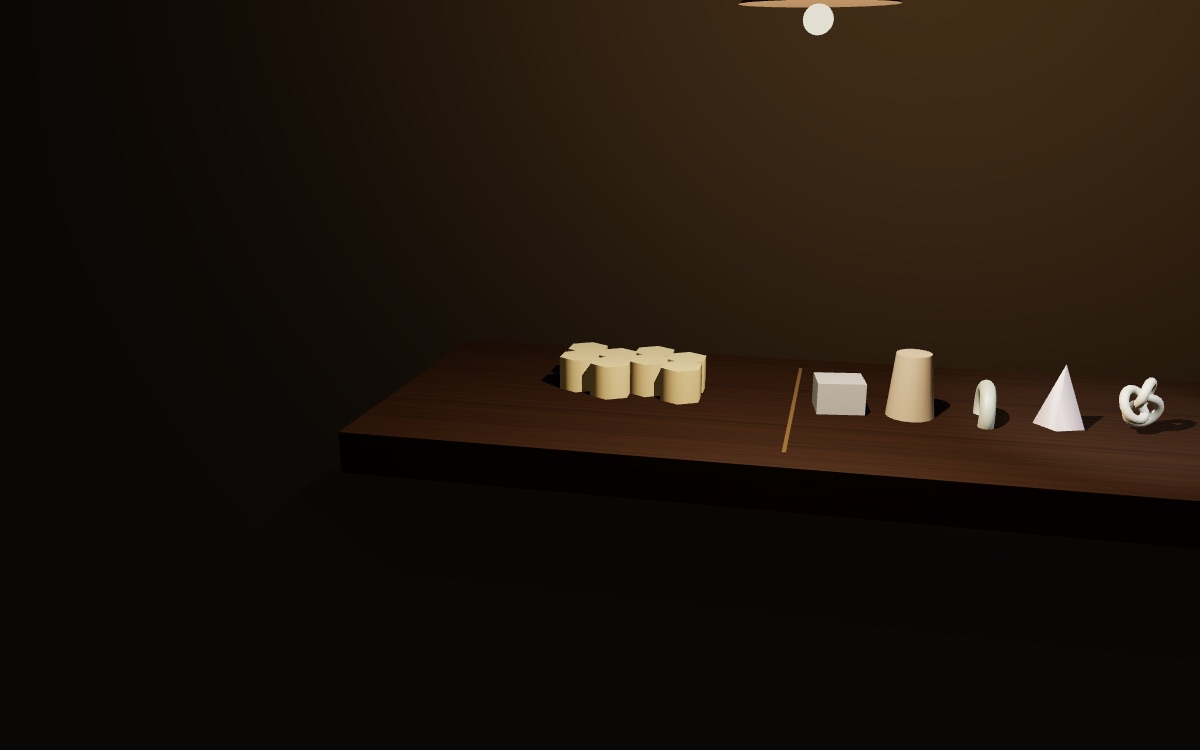
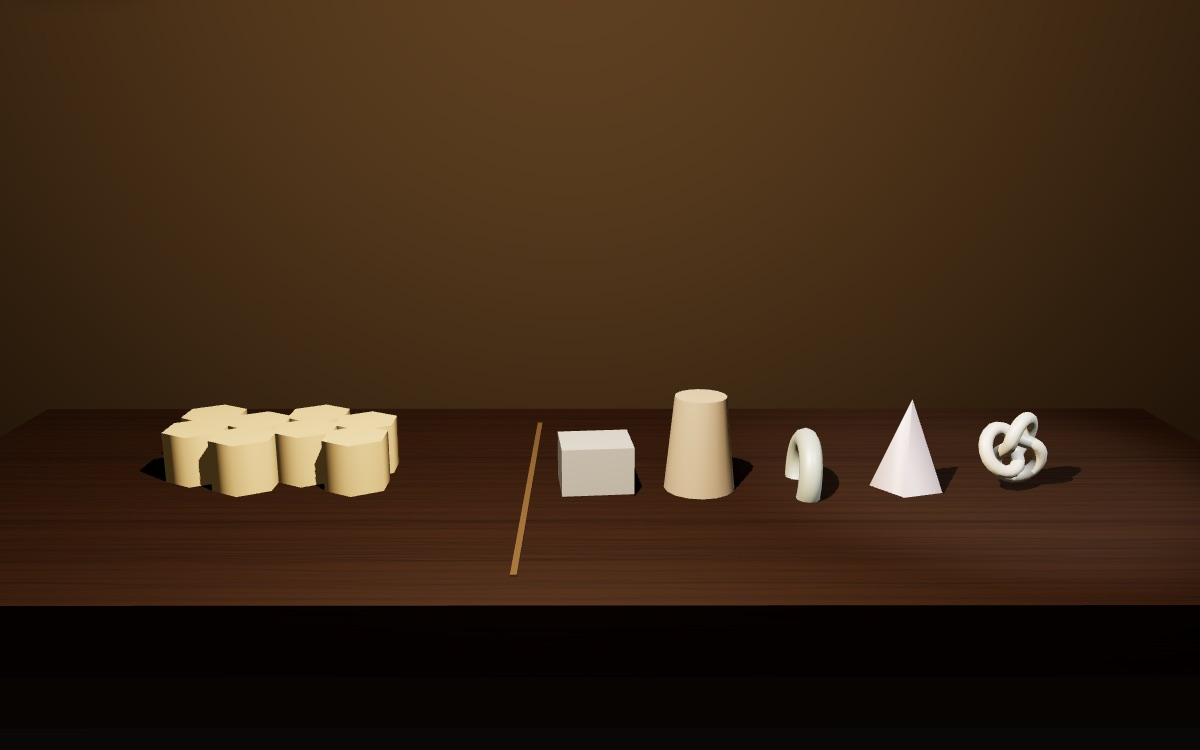
Glossaire : être générique réécrite selon la charte, direction artistique « le cadre et l'alvéole »

diff --git a/glossaire/mondes/etre-generique/essai.html b/glossaire/mondes/etre-generique/essai.html
@@ -1,46 +1,74 @@
-<!-- L'ESSAI — le corps de /glossaire/etre-generique.
-     ⚠ AUCUNE CITATION LIÉE : traduction Bottigelli, protégée jusqu'en 2046.
-     Le premier manuscrit est PARAPHRASÉ et situé, jamais cité. -->
+<!-- L'ESSAI : le corps de /glossaire/etre-generique.
+     Réécrit en octobre 2026 selon glossaire/mondes/CHARTE.md.
+     AUCUNE CITATION LIÉE : la traduction Bottigelli des Manuscrits est
+     protégée jusqu'en 2046. Le premier manuscrit est PARAPHRASÉ et situé,
+     jamais cité entre guillemets ; de même les Thèses sur Feuerbach.
+     Les data-etape et les id des sections ne changent pas : la scène lit
+     les premiers, les liens et la recherche les seconds. -->
 
 <section class="nt-sec" data-etape="mot" id="mot">
-<h2>Un mot qu'il faut d'abord défaire</h2>
-<p>« Être générique » traduit l'allemand <i>Gattungswesen</i>, et la traduction est si opaque qu'elle décourage à l'entrée. Il faut donc commencer par la défaire. <i>Gattung</i> veut dire le genre, l'espèce&nbsp;; <i>Wesen</i>, l'être ou l'essence. Un être générique est un être dont le rapport à sa propre espèce fait partie de ce qu'il est — un être qui, en agissant, a affaire non seulement à lui-même mais à ce que peut son espèce.</p>
-<p>La notion vient de Feuerbach, chez qui elle sert à expliquer la religion&nbsp;: l'homme y projetterait dans un dieu les perfections de son espèce, et adorerait ainsi sa propre essence sous une forme étrangère. Marx la reprend, et c'est ce déplacement qu'il faut suivre&nbsp;: chez lui, ce qui fait le rapport de l'homme à son espèce n'est pas la conscience ni la religion, c'est le <b>travail</b>. L'homme est un être générique parce qu'il produit, et la manière dont il produit décide de ce qu'il est.</p>
-<p>On voit d'emblée l'enjeu&nbsp;: si le rapport à l'espèce passe par le travail, alors une organisation du travail qui mutile ce rapport mutile l'homme dans ce qu'il a de propre. Le concept n'est donc pas un ornement philosophique posé sur l'analyse économique&nbsp;: c'est ce qui permet de dire en quoi consiste précisément le dommage.</p>
+<h2>Que veut dire «&nbsp;être générique&nbsp;»&nbsp;?</h2>
+<p class="nt-lead">Un être générique est un être qui, en agissant, a affaire à ce que peut son espèce entière, au-delà de ses besoins du moment. Marx reprend le mot à Feuerbach et en change le sens&nbsp;: chez lui, ce rapport à l'espèce passe par le travail.</p>
+<p>L'expression française est opaque, et il vaut mieux commencer par la défaire. Elle traduit l'allemand <i lang="de">Gattungswesen</i>. <i lang="de">Gattung</i> veut dire le genre, l'espèce&nbsp;; <i lang="de">Wesen</i>, l'être ou l'essence. «&nbsp;Générique&nbsp;» vient de genre, au sens où l'on parle du genre humain. Un être générique est un être pour qui l'espèce est un objet&nbsp;: il sait qu'il en fait partie, il peut se représenter ce dont elle est capable, et il agit en conséquence.</p>
+<p>Le mot vient de Ludwig Feuerbach, qui en fait la clé de <i>L'Essence du christianisme</i> (1841). Pour Feuerbach, ce qui sépare l'homme de l'animal est la conscience&nbsp;: l'homme a son espèce pour objet, et c'est pourquoi il peut se faire une religion. Dans un dieu, il contemple les perfections de son propre genre, sans savoir qu'elles sont les siennes. La critique de la religion consiste alors à rendre à l'homme ce qu'il avait projeté hors de lui.</p>
+<p>Marx garde le mot et déplace la chose. En 1844, à Paris, il rédige des cahiers d'économie et de philosophie qui resteront inédits jusqu'en 1932. Dans le premier, au passage intitulé «&nbsp;Le travail aliéné&nbsp;», il décrit successivement ce que ce travail fait au produit, à l'activité de l'ouvrier, puis à son être générique, et enfin au rapport entre les hommes. C'est la troisième qui définit l'être générique, et le rapport de l'homme à son espèce y passe par la manière dont il produit.</p>
 </section>
 
 <section class="nt-sec" data-etape="distinction" id="distinction">
-<h2>La distinction qui fait le concept&nbsp;: produire universellement</h2>
-<p>Marx établit le concept par une comparaison suivie avec l'animal, et cette comparaison est le cœur de la notion. L'animal produit, lui aussi&nbsp;: il bâtit des nids, des ruches, des terriers. Mais il produit d'une seule manière — celle de son espèce —, sous l'empire du besoin physique immédiat, et seulement ce dont il a immédiatement besoin, lui ou ses petits. Sa production est unilatérale, et elle ne se sépare jamais de sa nécessité.</p>
-<p>L'homme, dit Marx, produit universellement, et l'énoncé se décompose en quatre traits qu'il faut tenir ensemble. Il produit même libre du besoin physique, et il ne produit vraiment qu'alors. Il produit tout le champ de la nature, et non son seul environnement immédiat. Il sait produire selon la mesure de <b>toute</b> espèce, c'est-à-dire appliquer à chaque objet la mesure qui lui convient, et non une mesure unique. Et il sait former les choses d'après les lois de la beauté — ce qui veut dire&nbsp;: selon une mesure qui n'est commandée par aucun besoin.</p>
-<p>Le quatrième trait est celui qu'on escamote le plus souvent, et c'est pourtant celui qui décide. La production humaine se caractérise par le fait qu'elle peut se donner sa propre mesure&nbsp;; c'est en ce sens qu'elle est libre, et non parce qu'elle serait plus habile ou plus efficace. L'abeille bâtit admirablement, mais elle ne bâtit qu'une seule chose&nbsp;; le propre de l'homme n'est pas de mieux faire, c'est de pouvoir faire autrement.</p>
+<h2>En quoi l'homme produit-il autrement que l'animal&nbsp;?</h2>
+<p class="nt-lead">L'animal produit d'une seule manière, celle de son espèce, et seulement ce dont il a besoin. L'homme produit universellement&nbsp;: selon la mesure de chaque chose, et même sans besoin.</p>
+<p>Marx établit le concept par une comparaison suivie, et il commence par accorder à l'animal tout ce qui lui revient. L'animal produit, lui aussi. L'abeille, le castor, la fourmi se bâtissent des nids et des demeures. Mais l'animal ne produit que ce dont il a immédiatement besoin, pour lui ou pour ses petits. Il produit sous la contrainte du besoin physique, et d'une façon unilatérale. Son produit appartient directement à son corps, comme la cire appartient à l'abeille.</p>
+<p>L'homme, dit Marx, produit d'une manière universelle, et la formule se décompose en plusieurs traits. Il produit même lorsqu'il est libre du besoin physique, et ce n'est qu'alors, ajoute Marx, qu'il produit vraiment. Il ne se borne pas à son milieu immédiat&nbsp;: il reproduit, à sa façon, la nature entière. Il fait face librement à ce qu'il a produit, au lieu de le garder attaché à son corps. Surtout, il sait produire selon la mesure de n'importe quelle espèce et appliquer à chaque objet la mesure qui lui est propre. Il façonne enfin les choses d'après les lois de la beauté.</p>
+<p>Le dernier trait éclaire les autres. Les lois de la beauté désignent une mesure qu'aucun besoin ne commande. La production humaine peut se donner sa propre règle, et c'est ce qui la rend libre. L'abeille bâtit admirablement, et pourtant elle ne bâtit qu'une chose&nbsp;; le propre de l'homme est de pouvoir faire autrement.</p>
+<div class="nt-ex">
+<p class="nt-ex-t">Un exemple</p>
+<p>Regardez la photographie en tête de page. Les alvéoles sont des abeilles. Elles ont toutes la même forme et la même taille, et une ruche de l'an dernier ou d'un autre pays aurait les mêmes, puisque l'abeille ne connaît qu'une mesure, celle de son espèce. Le cadre de bois qui les entoure est d'un homme&nbsp;: il l'a taillé aux dimensions qui conviennent aux abeilles, c'est-à-dire à la mesure d'une autre espèce que la sienne.</p>
+<p>Le même homme aurait pu faire, dans le même bois, un nichoir à la mesure d'une mésange, une mangeoire à la mesure d'un cheval, une table à la sienne, ou un violon qui ne répond à aucun besoin. Les alvéoles et le cadre sont deux productions posées l'une dans l'autre. L'exemple est le nôtre&nbsp;; la distinction est celle de Marx.</p>
+</div>
 </section>
 
 <section class="nt-sec" data-etape="conscience" id="conscience">
-<h2>Le mécanisme&nbsp;: faire de sa vie un objet</h2>
-<p>Marx serre la différence d'un cran, et ce second énoncé est plus fort que le premier. L'animal <i>est</i> immédiatement son activité vitale&nbsp;: il ne s'en distingue pas, il ne la considère pas, il la vit. L'homme, lui, fait de son activité vitale l'objet de sa volonté et de sa conscience&nbsp;; il peut la regarder, la juger, la modifier. C'est ce recul qui fait qu'il a une vie générique&nbsp;: en se rapportant à ce qu'il fait, il se rapporte à ce que peut son espèce.</p>
-<p>De là une conséquence sur la nature elle-même. Parce qu'il produit universellement, l'homme fait de la nature entière son domaine, non seulement comme moyen de subsistance mais comme matière de son activité et comme objet de sa science et de son art. Marx en tire la formule qui court dans tout le cahier&nbsp;: la nature est le corps inorganique de l'homme, et vivre, c'est demeurer avec elle en procès continu.</p>
-<p>On tient alors le point où le concept se retourne en critique. Si l'homme est générique en ce qu'il produit universellement et se rapporte à ce qu'il fait, alors un travail qui n'est plus qu'un moyen de subsister renverse le rapport&nbsp;: la vie générique devient un moyen de la vie individuelle, au lieu que la seconde soit une expression de la première. C'est la troisième détermination du <a href="/glossaire/travail-aliene">travail aliéné</a>, et l'on voit qu'elle n'a de sens que si le concept d'être générique a été posé avant.</p>
+<h2>Pourquoi cette différence fait-elle de l'homme un être libre&nbsp;?</h2>
+<p class="nt-lead">Parce que l'homme fait de son activité l'objet de sa volonté et de sa conscience. L'animal se confond avec ce qu'il fait&nbsp;; l'homme peut le considérer, le juger et le changer.</p>
+<p>Marx serre la différence d'un cran, et ce second énoncé explique le premier. L'animal ne se distingue pas de son activité vitale&nbsp;: il est cette activité. L'homme, lui, fait de son activité un objet. Il peut la regarder du dehors, comme on regarde un ouvrage en cours. C'est seulement pour cette raison, écrit Marx, que son activité est libre&nbsp;: une manière de faire qu'on peut se représenter est une manière de faire qu'on peut modifier.</p>
+<p>On voit ici ce que Marx conserve de Feuerbach et ce qu'il transforme. La conscience joue toujours son rôle, mais elle devient le recul que l'homme prend sur sa propre production. Marx dit d'ailleurs que l'homme fait de l'espèce son objet en pratique comme en théorie, qu'il s'agisse de la sienne ou de celle des autres choses. Il se rapporte à lui-même comme à un être universel, et donc libre.</p>
+<p>De là un rapport neuf à la nature. Les plantes, les animaux, les pierres, l'air, la lumière entrent dans la conscience humaine comme objets de science et comme matière d'art. Ils entrent aussi dans sa vie pratique, comme nourriture, comme chauffage, comme vêtement. Marx en tire une formule qui court dans tout le cahier&nbsp;: la nature est le corps non organique de l'homme, avec lequel il doit rester en échange constant pour ne pas mourir.</p>
+<div data-planche="haeckel"></div>
+<p>C'est enfin en façonnant le monde des objets que l'homme fait la preuve de son être générique. Le produit de son travail est sa vie d'espèce rendue visible dans une chose, ce que Marx appelle son <a href="/glossaire/objectivation">objectivation</a>&nbsp;: l'homme se voit dans un monde qu'il a fait. On comprend dès lors pourquoi la manière d'organiser le travail décide de ce que l'homme devient.</p>
 </section>
 
 <section class="nt-sec" data-etape="mutilation" id="mutilation">
-<h2>Ce que le travail aliéné en fait</h2>
-<p>Le dommage, dans le vocabulaire de 1844, se dit donc avec une précision qu'on ne trouve pas dans les protestations ordinaires contre la dureté du travail. Ce n'est pas que le travail soit pénible&nbsp;; ce n'est pas même, d'abord, qu'il soit mal payé. C'est que la production, qui est le lieu où l'homme se rapporte à son espèce, y est réduite à ce qu'elle est chez l'animal&nbsp;: une activité commandée par le besoin immédiat, unilatérale, dont on ne se distingue pas assez pour la juger.</p>
-<p>Marx en donne le signe le plus net dans une observation qui frappe encore&nbsp;: le travailleur ne se sent hors de lui-même que dans son travail, et chez lui hors du travail&nbsp;; les fonctions animales — manger, boire, engendrer — deviennent le domaine où il se sent librement homme, et la fonction proprement humaine, produire, devient celle où il ne se sent qu'animal. Le renversement est complet, et il est décrit sans emphase.</p>
-<p>Il faut mesurer ce que cette analyse a de particulier. Elle ne dit pas que l'ouvrier serait déshumanisé au sens vague où l'on emploie ce mot&nbsp;: elle dit que le trait par lequel on définissait l'homme — produire selon toute mesure, y compris aucune — lui est retiré dans l'acte même où il produit. Le dommage est situé, et il est situé là où on ne le cherche pas.</p>
+<h2>Que fait le travail aliéné à ce rapport&nbsp;?</h2>
+<p class="nt-lead">Il le renverse. Produire, qui devait être la vie de l'espèce, devient un simple moyen de rester en vie, et ce qui distinguait l'homme de l'animal tourne à son désavantage.</p>
+<p>Le <a href="/glossaire/travail-aliene">travail aliéné</a> ôte d'abord à l'ouvrier son produit, puis son activité elle-même, qui lui devient étrangère. La troisième détermination tire la conséquence&nbsp;: en lui retirant son produit et son activité, ce travail lui retire aussi sa vie générique. Le rapport s'inverse. La vie de l'espèce, qui s'exprimait dans le travail, devient un moyen au service de la vie individuelle, c'est-à-dire de la simple subsistance. On ne travaille plus pour produire selon toutes les mesures&nbsp;; on travaille pour manger.</p>
+<p>Marx en donne un signe, dans la détermination qui précède. L'ouvrier ne se sent chez lui qu'en dehors du travail, et hors de lui quand il travaille. Il ne se sent libre que dans ses fonctions animales&nbsp;: manger, boire, procréer, se loger, se vêtir. Dans son activité proprement humaine, il ne se sent plus qu'un animal. Marx prend soin de préciser que manger et boire sont aussi des fonctions humaines. Elles deviennent animales lorsqu'on les sépare du reste de l'activité humaine pour en faire la seule fin de la vie.</p>
+<p>Le dommage ainsi décrit est situé avec exactitude. Le trait par lequel on définissait l'homme, produire selon toutes les mesures et même librement, lui est retiré dans l'acte même où il produit. L'avantage de l'homme sur l'animal se retourne en désavantage, puisque la nature, son corps non organique, lui est elle aussi soustraite. La quatrième détermination suit aussitôt&nbsp;: un homme rendu étranger à son espèce est rendu étranger aux autres hommes.</p>
 </section>
 
 <section class="nt-sec" data-etape="ouvre" id="ouvre">
-<h2>Ce que le concept ouvre&nbsp;: une mesure du dommage</h2>
-<p>La fécondité de la notion tient à ce qu'elle fournit un critère, et un critère qui ne dépend pas d'une morale. On peut demander d'une organisation du travail&nbsp;: y produit-on selon une seule mesure ou selon plusieurs&nbsp;? l'activité y est-elle un objet qu'on peut considérer et modifier, ou un enchaînement qu'on subit&nbsp;? y a-t-il place pour une production qui ne réponde à aucun besoin immédiat&nbsp;? Ces questions sont vérifiables, et elles ne supposent aucune vue sur ce qui serait bon pour l'homme en général.</p>
-<p>Le critère éclaire aussi ce que Marx attend d'un dépassement. Le <a href="/glossaire/communisme">communisme</a> tel que le troisième manuscrit le définit n'est pas une redistribution&nbsp;: c'est la restitution de ce rapport, l'homme redevenant un être pour qui produire est une manière de se rapporter à ce que peut son espèce. On comprend alors pourquoi Marx tient tant à distinguer cette perspective d'un communisme qui se contenterait de généraliser la possession&nbsp;: celui-là ne rendrait rien du rapport perdu.</p>
-<p>Nous ajoutons que ce critère traverse l'œuvre plus qu'on ne le dit, sous d'autres mots. Le chapitre du <i>Capital</i> sur la manufacture décrit l'ouvrier parcellaire comme un homme réduit à une opération unique, et celui sur le machinisme le fait passer d'ouvrier à appendice&nbsp;: c'est la même mesure, appliquée à une matière plus riche.</p>
+<h2>Le concept survit-il dans l'œuvre de Marx&nbsp;?</h2>
+<p class="nt-lead">Le mot disparaît après 1845, la mesure reste. Elle définit le communisme dans les <i>Manuscrits</i>, puis elle sert, dans <i>Le Capital</i>, à juger la division du travail et la machine.</p>
+<p>La notion fournit d'abord un critère qui ne dépend d'aucune morale. On peut demander d'une organisation du travail&nbsp;: y produit-on selon une seule mesure ou selon plusieurs&nbsp;? L'activité y est-elle un objet qu'on peut considérer et changer, ou un enchaînement qu'on subit&nbsp;? Ces questions se vérifient sur un atelier réel. C'est aussi ce critère qui oriente le <a href="/glossaire/communisme">communisme</a> du troisième manuscrit. Marx l'y distingue d'un communisme grossier qui se contenterait d'étendre la possession à tous&nbsp;: celui-là ne rendrait rien du rapport perdu. Le dépassement qu'il vise rend à l'homme sa vie d'espèce.</p>
+<p>Plus de vingt ans après, <i>Le Capital</i> ne parle plus d'être générique. Mais le chapitre sur la <a href="/glossaire/division-du-travail">division manufacturière du travail</a> décrit un ouvrier qui passe sa vie à répéter une seule opération, et le chapitre sur le machinisme fait de lui l'<a href="/glossaire/appendice-de-la-machine">appendice d'une machine</a>. La planche de l'<i>Encyclopédie</i> reproduite ci-dessous montre ce que cela veut dire&nbsp;: dans la manufacture d'épingles, l'un dresse le fil, d'autres l'appointent sur des meules, chacun à son poste. Chaque homme n'a plus qu'une forme de travail, comme l'abeille n'a qu'une forme d'alvéole.</p>
+<div data-planche="epinglier"></div>
+<p>La comparaison avec l'animal revient elle-même, transformée, au chapitre VII du <i>Capital</i>. Marx y oppose l'abeille au plus mauvais des architectes&nbsp;: celui-ci a bâti la cellule dans sa tête avant de la bâtir dans la ruche (voir le <a href="/commentaires/architecte-et-abeille">commentaire de ce passage</a>). Le critère s'est déplacé. En 1844, l'homme se distinguait par l'étendue des mesures qu'il sait appliquer&nbsp;; en 1867, par le projet qui précède l'exécution. Les deux tiennent au même point, le recul que l'homme prend sur sa propre activité.</p>
 </section>
 
 <section class="nt-sec" data-etape="lectures" id="lectures">
-<h2>Lectures, et contresens</h2>
-<p>Le premier contresens fait du concept une essence humaine fixe, dont l'histoire ne serait que la dégradation ou la restauration. C'est mal lire&nbsp;: ce que Marx appelle générique n'est pas un contenu donné une fois pour toutes mais une <i>capacité</i> — produire selon toute mesure —, et cette capacité se développe avec l'histoire. Ce qui est mutilé n'est pas une nature originelle&nbsp;; c'est un pouvoir dont l'étendue dépend précisément des rapports où il s'exerce.</p>
-<p>Le deuxième contresens est le symétrique du premier, et il est aujourd'hui plus répandu&nbsp;: on tient l'être générique pour un reste de Feuerbach dont Marx se serait débarrassé, et l'on cite les <i>Thèses sur Feuerbach</i> de 1845, qui définissent l'essence humaine comme l'ensemble des rapports sociaux. Il y a bien là une rupture, et elle est réelle&nbsp;; mais elle porte sur le <i>mode</i> d'existence de l'essence — sociale et historique, non naturelle — et non sur l'idée que l'homme se rapporte à son espèce en produisant. Nous nous rangeons parmi ceux qui lisent une transformation plutôt qu'un abandon.</p>
-<p>Le troisième contresens tient à la comparaison animale, que l'on trouve parfois naïve, voire fautive au regard de ce que l'éthologie a montré depuis — outils, cultures locales, transmissions. L'objection est sérieuse mais elle manque la cible&nbsp;: l'argument de Marx ne repose pas sur l'incapacité de l'animal à faire des outils, il repose sur le fait de produire selon une mesure qui n'est pas la sienne et sans y être contraint. Une part de la description zoologique a vieilli&nbsp;; la distinction, elle, tient.</p>
-<p>Reste enfin le statut de ces cahiers, chantier resté inédit jusqu'en 1932. Le concept d'être générique est de ceux que Marx cessera d'employer, et c'est un fait qu'il ne faut pas cacher&nbsp;; nous soutenons seulement qu'il continue d'opérer sous d'autres noms, et qu'on lit mal la manufacture et le machinisme si l'on ignore d'où vient la mesure qui y sert à juger.</p>
+<h2>Comment lire ce concept, et quels contresens éviter&nbsp;?</h2>
+<p class="nt-lead">La discussion porte sur ce que devient le concept après 1845. Nous y lisons une transformation plutôt qu'un abandon&nbsp;; trois contresens courants se corrigent en relisant le premier manuscrit.</p>
+<p>En 1845, dans les <i>Thèses sur Feuerbach</i>, Marx définit l'essence humaine comme l'ensemble des rapports sociaux. Il reproche à Feuerbach de ne l'avoir conçue que comme un genre, une généralité muette qui relie les individus de façon naturelle. Louis Althusser, dans <i>Pour Marx</i> (1965), a fait de ce moment une coupure&nbsp;: Marx aurait quitté l'humanisme de sa jeunesse pour fonder une science de l'histoire, et l'être générique appartiendrait au premier versant. La rupture est réelle. Elle porte sur la manière d'être de l'essence, désormais sociale et historique&nbsp;; l'idée que l'homme se rapporte à son espèce en produisant demeure, et la mesure qui sert à juger la manufacture dans <i>Le Capital</i> le montre.</p>
+<p>Ces cahiers restent un chantier, que Marx n'a pas publié. Il cesse d'employer le mot, et il ne faut pas le cacher. On lit mal, pourtant, les chapitres sur la manufacture et la machine si l'on ignore d'où vient la mesure qui y sert à juger.</p>
+<div class="nt-cs">
+<p><span class="nt-cs-k">On lit souvent</span> «&nbsp;Générique&nbsp;» voudrait dire commun, standard, interchangeable&nbsp;: l'être générique serait l'homme quelconque, réduit à ce qu'il a de plus banal.</p>
+<p><span class="nt-cs-k">Ce que dit le texte</span> Le mot renvoie au genre humain. L'être générique est au contraire l'homme qui peut produire selon toutes les mesures. C'est le travail aliéné qui le ramène à une seule.</p>
+</div>
+<div class="nt-cs">
+<p><span class="nt-cs-k">On lit souvent</span> Marx poserait une nature humaine fixe, dont l'histoire ne serait que la perte puis la restauration.</p>
+<p><span class="nt-cs-k">Ce que dit le texte</span> Ce que Marx appelle générique est une capacité, produire selon toute mesure, qui s'étend avec la production elle-même. Ce que le travail aliéné mutile n'est pas une nature d'origine, c'est un pouvoir dont l'étendue dépend des rapports où il s'exerce.</p>
+</div>
+<div class="nt-cs">
+<p><span class="nt-cs-k">On lit souvent</span> La comparaison avec l'animal serait naïve, réfutée par tout ce que l'éthologie a appris depuis sur les outils et les traditions des animaux.</p>
+<p><span class="nt-cs-k">Ce que dit le texte</span> L'argument ne repose pas sur l'incapacité de l'animal à se servir d'outils. Il repose sur le fait de produire selon une mesure qui n'est pas la sienne, et sans y être contraint par le besoin. Une part de la zoologie de 1844 a vieilli&nbsp;; la distinction tient.</p>
+</div>
 </section>

diff --git a/glossaire/mondes/etre-generique/monde.js b/glossaire/mondes/etre-generique/monde.js
@@ -9,7 +9,7 @@
    À gauche, une rangée de cellules hexagonales identiques qui se répète,
    toujours la même, sans jamais varier. À droite, sur le même établi, des
    formes qui arrivent une à une et dont aucune ne ressemble à la
-   précédente — et la dernière ne répond à aucun besoin : c'est une forme
+   précédente, et la dernière ne répond à aucun besoin : c'est une forme
    pure, et c'est elle que la lumière prend.
 
    Le dernier temps ÉTEINT le côté humain sauf une cellule : quand le
@@ -126,22 +126,19 @@ window.LM_MONDE = function (canvas) {
     beaute.intensity = 3.2 * st.pure * (1 - 0.6 * st.retombe);
     lampe.intensity = 3.0 * (1 - 0.2 * st.retombe) * (1 + 0.03 * Math.sin(T * 7.7));
 
-    /* la caméra. L'ensemble fait deux unités et quart ; à 38° et en paysage
-       la largeur vue vaut 1,07 fois la distance, et la colonne de texte prend
-       43 % — d'où une distance de trois et demie, et un décalage de 0,80. */
+    /* la caméra : serrée sur les cellules, puis l'établi entier.
+       La scène est maintenant une FIGURE en bas de page (oct. 2026) : plus
+       de colonne de texte à côté d'elle, donc plus de visée décalée à
+       gauche du sujet (elle rejetait l'établi au bord droit du cadre). La
+       caméra vise le milieu de l'établi ; à 38° et en 16/10, la largeur vue
+       vaut environ 1,07 fois la distance, d'où 2,2 pour que les cinq formes
+       et la ruche tiennent. */
     var q = ss(0, 1, Math.min(1, G / 1.9));
-    /* l'ensemble fait deux unités : à 38° la largeur vue vaut 1,07 fois la
-       distance, il en faut donc trois et demie pour qu'il tienne ENTIER
-       dans les 57 % que la colonne de texte laisse — et le décalage vaut
-       alors 0,78. Plus près, la cinquième forme sortait du cadre. */
-    var cx = lerp(0.30, 0.00, q), cy = lerp(0.62, 1.06, q), cz = lerp(1.45, 3.40, q);
-    cz = lerp(cz, 3.65, st.recul); cy = lerp(cy, 1.16, st.recul);
-    var camA = V3(lerp(-0.48, 0.00, q), lerp(0.10, 0.06, q), 0.0);
+    var cx = lerp(-0.30, 0.00, q), cy = lerp(0.58, 0.80, q), cz = lerp(1.25, 2.20, q);
+    cz = lerp(cz, 2.50, st.recul); cy = lerp(cy, 0.88, st.recul);
+    var camA = V3(lerp(-0.68, 0.01, q), lerp(0.06, 0.24, q), 0.0);
     camera.position.set(cx + 0.012 * Math.sin(T * 0.27), cy + 0.008 * Math.sin(T * 0.35), cz);
-    var dist = camera.position.distanceTo(camA);
-    var fwd = new THREE.Vector3().subVectors(camA, camera.position).normalize();
-    var right = new THREE.Vector3().crossVectors(fwd, V3(0, 1, 0)).normalize();
-    aim.copy(camA).addScaledVector(right, -Math.min(0.26 * dist, 0.78));
+    aim.copy(camA);
     camera.lookAt(aim);
     render();
   }
